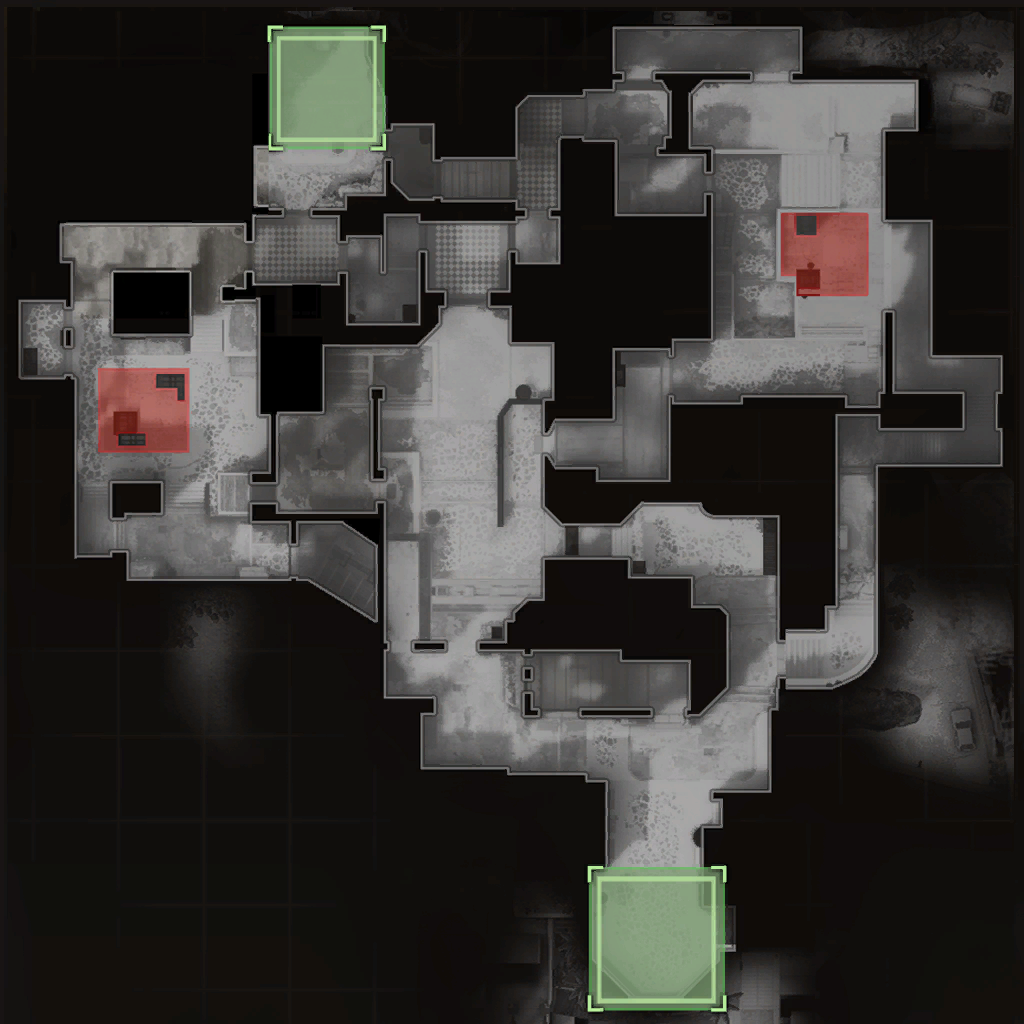
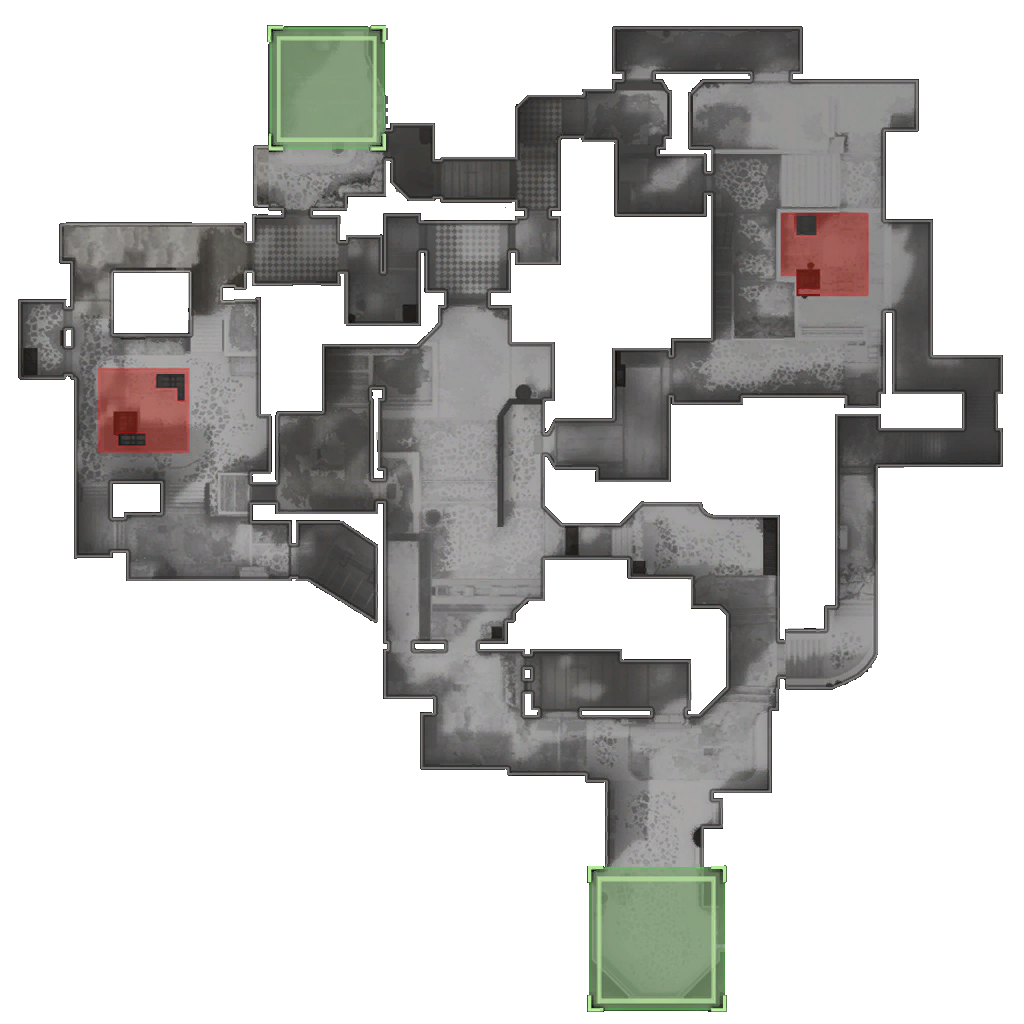
make some minimaps transparent

diff --git a/src/renderer/radars.js b/src/renderer/radars.js
@@ -178,6 +178,8 @@ export default {
 	},
 
 	de_austria: {
+		transparent: true,
+
 		pos_x: -2877,
 		pos_y: 2930,
 		scale: 5.8,
@@ -230,6 +232,7 @@ export default {
 
 	de_cache: {
 		simpleradar: true,
+		transparent: true,
 
 		pos_x: -2000,
 		pos_y: 3250,
@@ -255,6 +258,8 @@ export default {
 	},
 
 	de_cbble: {
+		transparent: true,
+
 		pos_x: -3840,
 		pos_y: 3072,
 		scale: 6,
@@ -295,6 +300,7 @@ export default {
 
 	de_dust2: {
 		simpleradar: true,
+		transparent: true,
 
 		pos_x: -2476,
 		pos_y: 3239,
@@ -347,6 +353,7 @@ export default {
 
 	de_inferno: {
 		simpleradar: true,
+		transparent: true,
 
 		pos_x: -2087,
 		pos_y: 3870,
@@ -390,6 +397,7 @@ export default {
 
 	de_mirage: {
 		simpleradar: true,
+		transparent: true,
 
 		pos_x: -3230,
 		pos_y: 1713,
@@ -417,6 +425,7 @@ export default {
 
 	de_nuke: {
 		simpleradar: true,
+		transparent: true,
 
 		pos_x: -3453,
 		pos_y: 2887,
@@ -441,6 +450,7 @@ export default {
 
 	de_overpass: {
 		simpleradar: true,
+		transparent: true,
 
 		pos_x: -4831,
 		pos_y: 1781,
@@ -490,6 +500,8 @@ export default {
 	},
 
 	de_santorini: {
+		transparent: true,
+
 		pos_x: -2135,
 		pos_y: 1400,
 		scale: 4,
@@ -579,6 +591,7 @@ export default {
 
 	de_train: {
 		simpleradar: true,
+		transparent: true,
 
 		pos_x: -2477,
 		pos_y: 2392,
@@ -593,6 +606,7 @@ export default {
 
 	de_vertigo: {
 		simpleradar: true,
+		transparent: true,
 
 		pos_x: -3168,
 		pos_y: 1762,
@@ -648,6 +662,8 @@ export default {
 	},
 
 	gd_cbble: {
+		transparent: true,
+
 		pos_x: -3840,
 		pos_y: 3072,
 		scale: 6,

diff --git a/src/renderer/Components/Minimap.vue b/src/renderer/Components/Minimap.vue
@@ -1,5 +1,5 @@
 <template>
-	<div v-if="map && map.name" class="minimap">
+	<div v-if="map && map.name" :class="['minimap', { '--transparent': mapData.transparent }]">
 		<img ref="image" :src="mapImage" @load="onResize">
 
 		<template v-if="imageHeight !== null">
